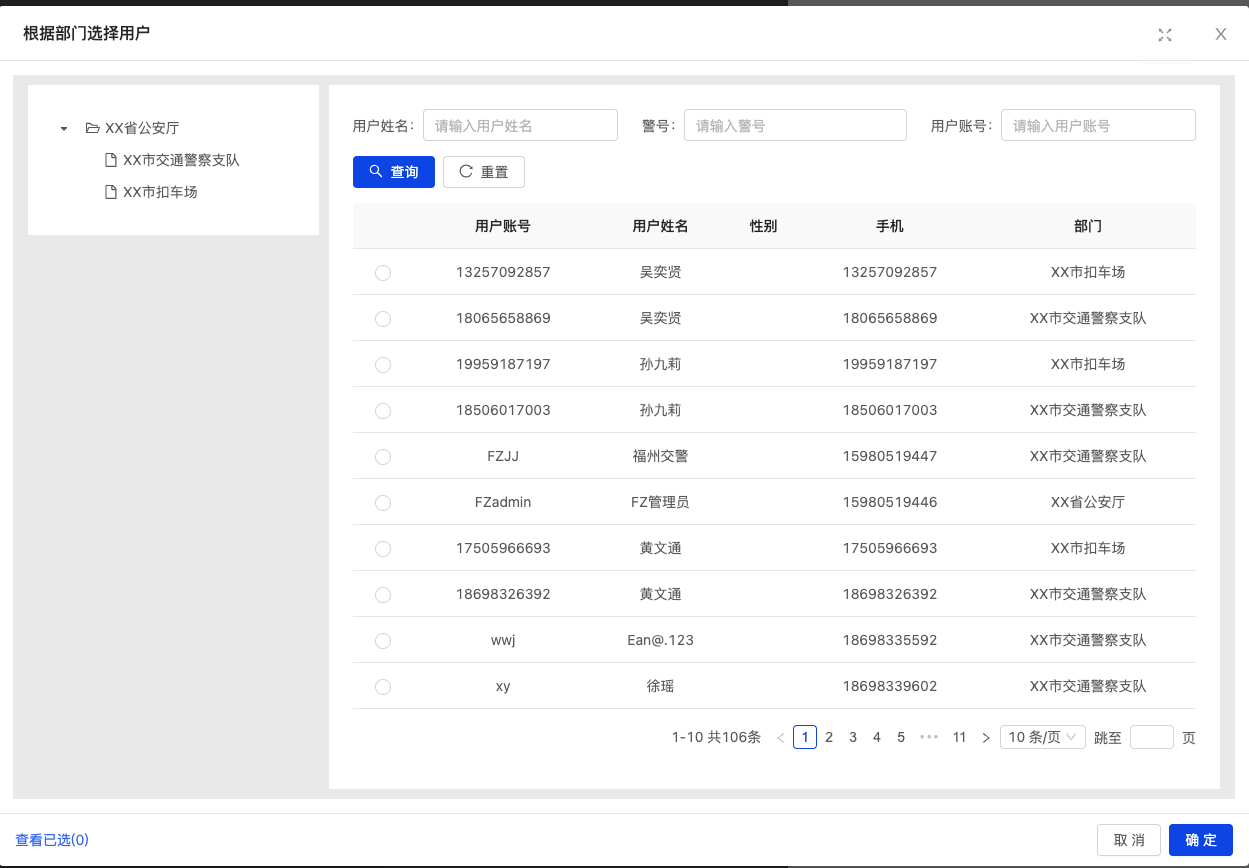
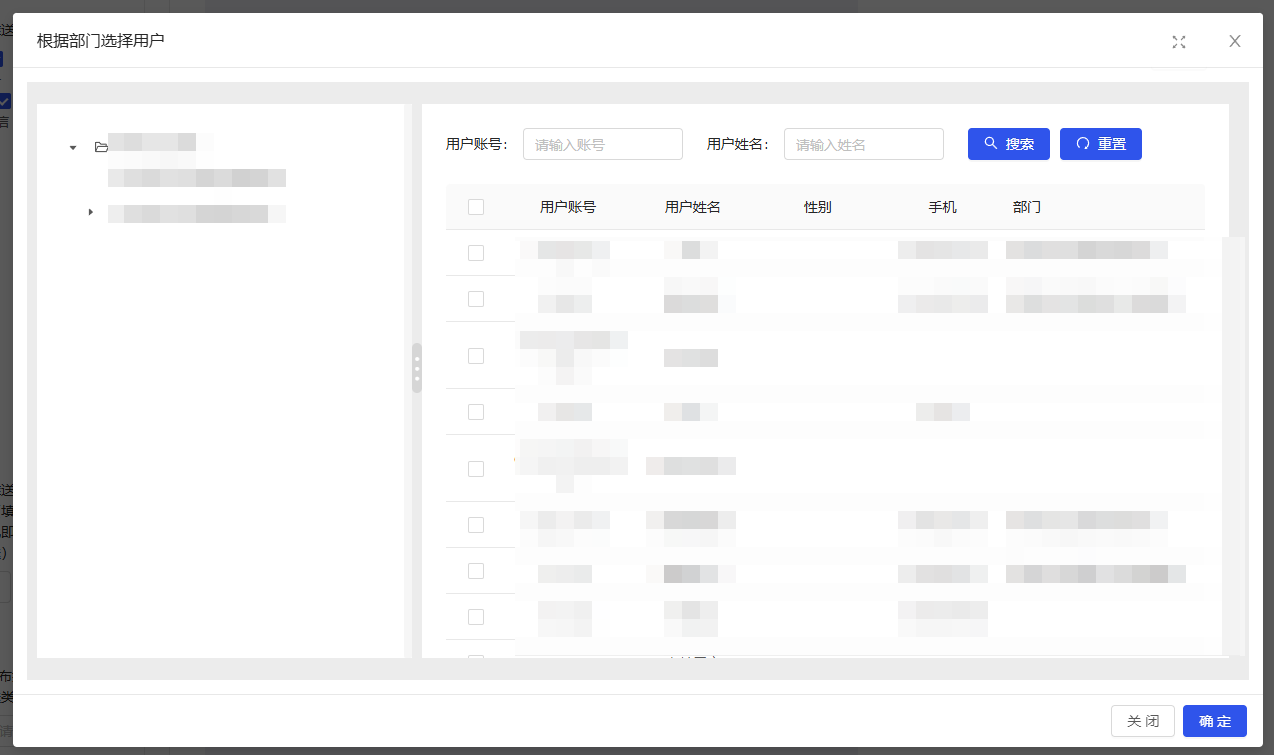
chore: 修复选择人员图片错误问题。

diff --git a/docs/components/JSelectUserByDep.md b/docs/components/JSelectUserByDep.md
@@ -9,7 +9,7 @@ group:
 
 author: 陈书航
 
-![img](./img/jSelectDepartImg.png)
+![img](./img/jSelectUserByDepImg.png)
 
 #### 组件路径
 
